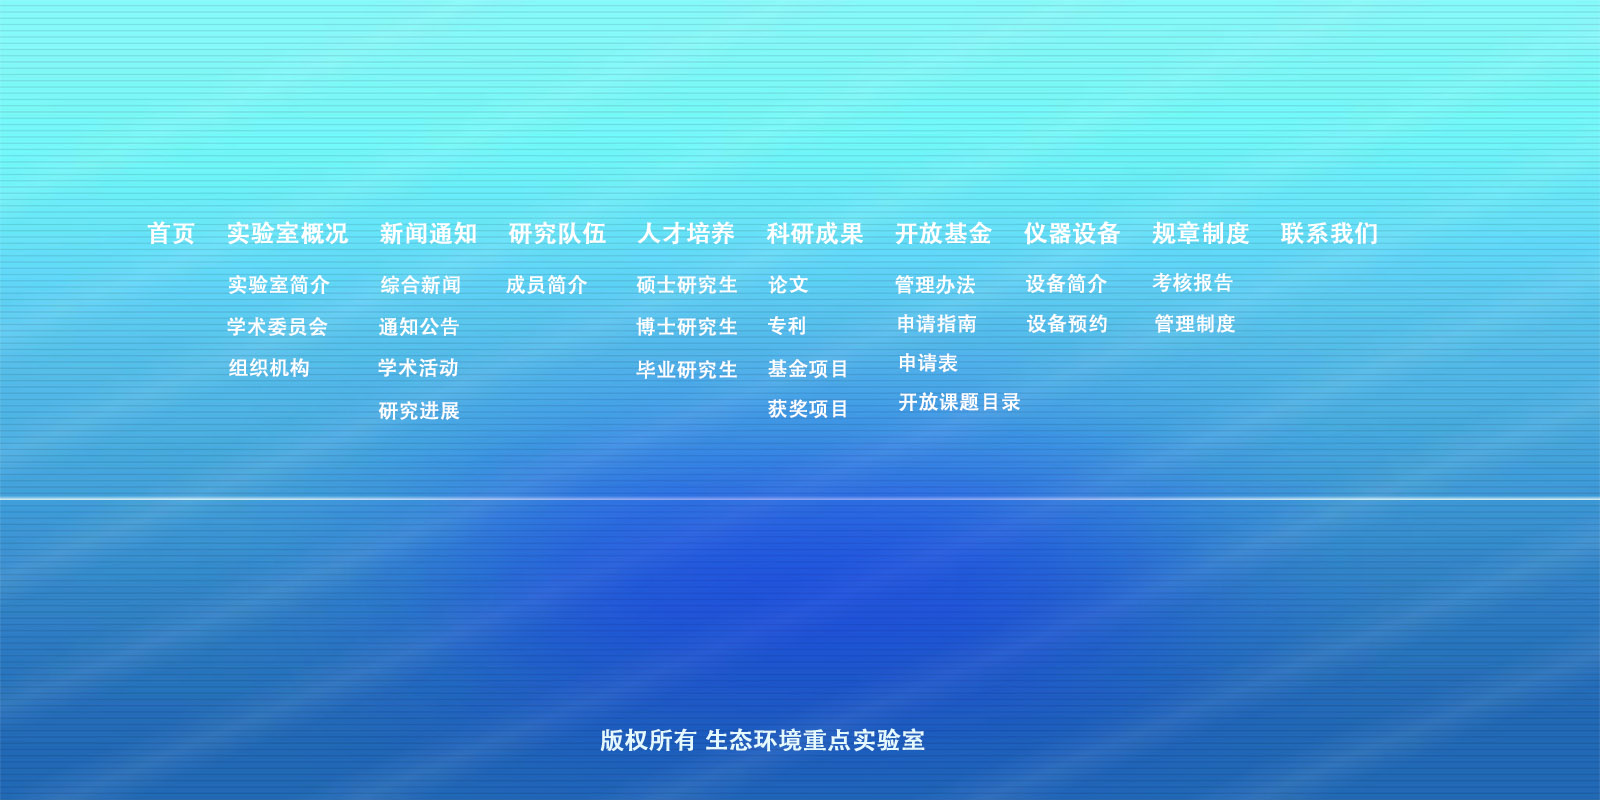
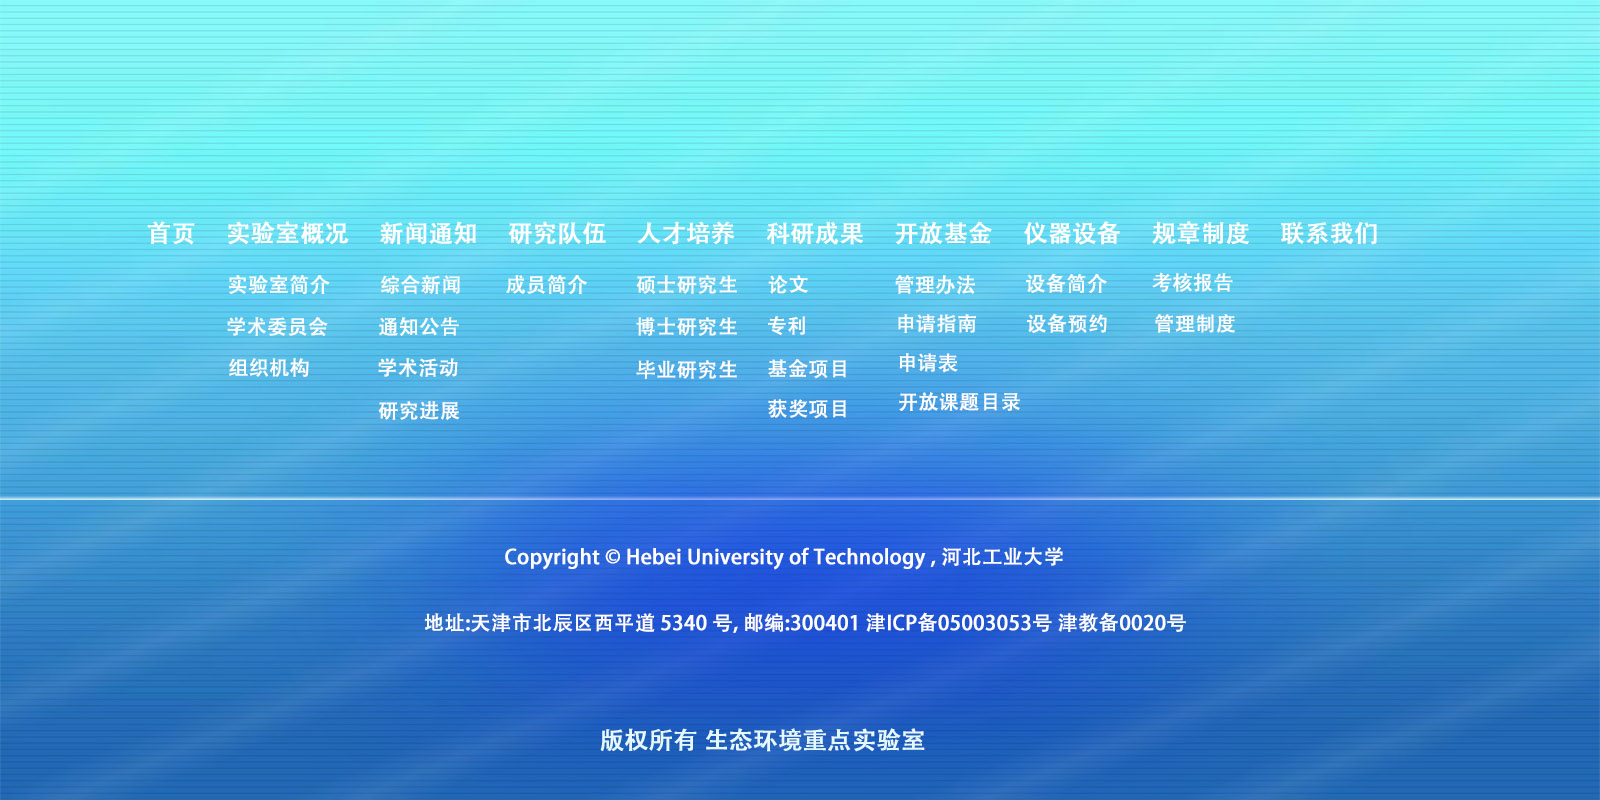
修改

Changed region(s): [[0.25, 0.75, 0.75, 0.8125], [0.3125, 0.6875, 0.6875, 0.7188]]

diff --git a/litian/list.html b/litian/list.html
@@ -1,112 +1,128 @@
-<html>
+<html lang="en">
     <head>
         <meta charset="UTF-8">
         <title>生态环境重点实验室</title>
         <meta content='width=device-width, initial-scale=1, maximum-scale=1, user-scalable=no' name='viewport'>
         <!-- bootstrap 3.0.2 -->
         <link href="css/bootstrap.min.css" rel="stylesheet" type="text/css" />
-        <!-- font Awesome -->
-        <link href="css/font-awesome.min.css" rel="stylesheet" type="text/css" />
-        <!-- Ionicons -->
-        <link href="css/ionicons.min.css" rel="stylesheet" type="text/css" />
-        <!-- Morris chart -->
-        <link href="css/morris/morris.css" rel="stylesheet" type="text/css" />
-        <!-- jvectormap -->
-        <link href="css/jvectormap/jquery-jvectormap-1.2.2.css" rel="stylesheet" type="text/css" />
-        <!-- fullCalendar -->
-        <link href="css/fullcalendar/fullcalendar.css" rel="stylesheet" type="text/css" />
-        <!-- Daterange picker -->
-        <link href="css/daterangepicker/daterangepicker-bs3.css" rel="stylesheet" type="text/css" />
-        <!-- bootstrap wysihtml5 - text editor -->
-        <link href="css/bootstrap-wysihtml5/bootstrap3-wysihtml5.min.css" rel="stylesheet" type="text/css" />
-        <!-- Theme style -->
-        <link href="css/AdminLTE.css" rel="stylesheet" type="text/css" />
+        <!-- theme -->
+        <link href="css/defined.css" rel="stylesheet" type="text/css" />
     </head>
     <body>
         <div class="container-fluid">
-            <div class="row"><!--标题-->
-                <div class="col-md-12">
+            
+            <div class="row bg"><!--标题-->
+                <div class="col-md-2"></div>
+                <div class="col-md-8">
                     <div class="row">
-                        <div class="col-md-2">
-                            <img alt="Bootstrap Image Preview" src="images/3.jpg" class="img-circle" />
-                        </div>
-                        <div class="col-md-5">
-                            <div class="page-header">
-                                <h1>
-                                    生态环境重点实验室
-                                </h1>
-                            </div>
-                        </div>
-                        <div class="col-md-5">
-                                <h3>
-                                    创新 求真 务实
-                                </h3>
+                        <div class="col-md-12">
+                            <img  src="images/logo1.jpg" class="img-responsive" alt="Responsive image"/>
                         </div>
                     </div>
                 </div>
+                <div class="col-md-2"></div>
             </div>
             <div class="row"><!--导航-->
-                <div class="col-md-12">
+                <div class="col-md-2"></div>
+                <div class="col-md-8">
                     <nav class="navbar navbar-default" role="navigation">
-                        <!--<div class="navbar-header">
-                            <button type="button" class="navbar-toggle" data-toggle="collapse" data-target="#bs-example-navbar-collapse-1">
-                                <span class="sr-only"></span>
-                                <span class="icon-bar"></span>
-                                <span class="icon-bar"></span>
-                                <span class="icon-bar"></span>
-                            </button>
-                            <a class="navbar-brand active" href="#">首页</a>
-                        </div>-->
-                        <div class="collapse navbar-collapse" id="bs-example-navbar-collapse-1">
+                        
+                        <div class="collapse navbar-collapse nav-define" id="bs-example-navbar-collapse-1">
                             <ul class="nav navbar-nav">
                                 <li>
-                                    <a href="#">首页</a>
+                                    <a href="laboratory.html"><span class="li-define">首页</span></a>
                                 </li>
                                 <li>
-                                    <a href="#">实验室概况</a>
+                                    <a href="#"><span class="li-define">实验室概况</span></a>
                                 </li>
-                                <li class="active">
-                                    <a href="#">新闻通知</a>
-                                </li>
-                                <li>
-                                    <a href="#">研究队伍</a>
+                                <li class="active-define">
+                                    <a href="list.html"><span class="li-define">新闻通知</span></a>
                                     
                                 </li>
                                 <li>
-                                    <a href="#">人才培养</a>
+                                    <a href="#"><span class="li-define">研究队伍</span></a>
+                                    
                                 </li>
                                 <li>
-                                    <a href="#">科研成果</a>
+                                    <a href="#"><span class="li-define">人才培养</span></a>
                                 </li>
-                                <li class="dropdown">
-                                    <a href="#">开放基金</a>
-                                </li>
-                                <li class="dropdown">
-                                    <a href="#">仪器设备</a>
-                                </li>
-                                <li class="dropdown">
-                                    <a href="#">规章制度</a>
+                                <li>
+                                    <a href="#"><span class="li-define">科研成果</span></a>
                                     <ul class="dropdown-menu">
                                         <li>
-                                            <a href="#">考核报告</a>
+                                            <a href="#">论文</a>
                                         </li>
                                         <li>
-                                            <a href="#">管理制度</a>
+                                            <a href="#">专利</a>
                                         </li>
-                                        
+                                        <li>
+                                            <a href="#">基金项目</a>
+                                        </li>
+                                        <li>
+                                            <a href="#">获奖项目</a>
+                                        </li>
                                     </ul>
                                 </li>
                                 <li>
+                                    <a href="#"><span class="li-define">开放基金</span></a>
+                                    <ul class="dropdown-menu">
+                                        <li>
+                                            <a href="#">管理办法</a>
+                                        </li>
+                                        <li>
+                                            <a href="#">申请指南</a>
+                                        </li>
+                                        <li>
+                                            <a href="#">申请表</a>
+                                        </li>
+                                        <li>
+                                            <a href="#">开放课题目录</a>
+                                        </li>
+                                    </ul>
+                                </li>
+                                <li>
+                                    <a href="#"><span class="li-define">仪器设备</span></a>
+                                    
+                                </li>
+                                <li>
+                                    <a href="#"><span class="li-define">规章制度</span></a>
+                                    
+                                </li>
+                                <li>
                                     <!--<a href="#" class="dropdown-toggle" data-toggle="dropdown">联系我们<strong class="caret"></strong></a>-->
-                                    <a href="">联系我们</a>
+                                    <a href=""><span class="li-define">联系我们</span></a>
+                                    <!--<ul class="dropdown-menu">
+                                        <li>
+                                            <a href="#">Action</a>
+                                        </li>
+                                        <li>
+                                            <a href="#">Another action</a>
+                                        </li>
+                                        <li>
+                                            <a href="#">Something else here</a>
+                                        </li>
+                                        <li class="divider">
+                                        </li>
+                                        <li>
+                                            <a href="#">Separated link</a>
+                                        </li>
+                                        <li class="divider">
+                                        </li>
+                                        <li>
+                                            <a href="#">One more separated link</a>
+                                        </li>
+                                    </ul>-->
                                 </li>
                             </ul>
                         </div>
+                    
                     </nav>
                 </div>
+                <div class="col-md-2"></div>
             </div>
             <div class="row">
-                <div class="col-md-12">
+                <div class="col-md-2"></div>
+                <div class="col-md-8">
                     <div class="tabbable" id="tabs-629959">
                         <ul class="nav nav-tabs">
                                 <li class="active">
@@ -174,35 +190,20 @@
                     </ul>
 		</div>
             </div>
+            <div class="row bg-foot">
+                <div class="col-md-2"></div>
+                <div class="col-md-8">
+                    <div class="row">
+                        <div class="col-md-12">
+                            <img src="images/bg-foot.jpg" class="img-responsive" alt="Responsive image"/>
+                        </div>
+                    </div>
+                </div>
+                <div class="col-md-2"></div>
+            </div>
         </div>
-        <script src="js/jquery-2.1.4.min.js"></script>
-        <!-- jQuery UI 1.10.3 -->
-        <script src="js/jquery-ui-1.10.3.min.js" type="text/javascript"></script>
-        <!-- Bootstrap -->
-        <script src="js/bootstrap.min.js" type="text/javascript"></script>
-        <!-- Morris.js charts -->
-        <script src="//cdnjs.cloudflare.com/ajax/libs/raphael/2.1.0/raphael-min.js"></script>
-        <script src="js/plugins/morris/morris.min.js" type="text/javascript"></script>
-        <!-- Sparkline -->
-        <script src="js/plugins/sparkline/jquery.sparkline.min.js" type="text/javascript"></script>
-        <!-- jvectormap -->
-        <script src="js/plugins/jvectormap/jquery-jvectormap-1.2.2.min.js" type="text/javascript"></script>
-        <script src="js/plugins/jvectormap/jquery-jvectormap-world-mill-en.js" type="text/javascript"></script>
-        <!-- fullCalendar -->
-        <script src="js/plugins/fullcalendar/fullcalendar.min.js" type="text/javascript"></script>
-        <!-- jQuery Knob Chart -->
-        <script src="js/plugins/jqueryKnob/jquery.knob.js" type="text/javascript"></script>
-        <!-- daterangepicker -->
-        <script src="js/plugins/daterangepicker/daterangepicker.js" type="text/javascript"></script>
-        <!-- Bootstrap WYSIHTML5 -->
-        <script src="js/plugins/bootstrap-wysihtml5/bootstrap3-wysihtml5.all.min.js" type="text/javascript"></script>
-        <!-- iCheck -->
-        <script src="js/plugins/iCheck/icheck.min.js" type="text/javascript"></script>
-
-        <!-- AdminLTE App -->
-        <script src="js/AdminLTE/app.js" type="text/javascript"></script>
-        
-        <!-- AdminLTE dashboard demo (This is only for demo purposes) -->
-        <script src="js/AdminLTE/dashboard.js" type="text/javascript"></script>
+        <script src="js/jquery.min.js"></script>
+        <script src="js/bootstrap.min.js"></script>
+        <script src="js/scripts.js"></script>
     </body>
 </html>

diff --git a/litian/laboratory.html b/litian/laboratory.html
@@ -22,7 +22,6 @@
                 </div>
                 <div class="col-md-2"></div>
             </div>
-            <div class="row"></div>
             <div class="row"><!--导航-->
                 <div class="col-md-2"></div>
                 <div class="col-md-8">
@@ -35,35 +34,14 @@
                                 </li>
                                 <li>
                                     <a href="#"><span class="li-define">实验室概况</span></a>
-                                    <ul class="dropdown-menu">
-                                        <li>
-                                            <a href="#">实验室简介</a>
-                                        </li>
-                                        <li>
-                                            <a href="#">学术委员会</a>
-                                        </li>
-                                        <li>
-                                            <a href="#">组织机构</a>
-                                        </li>
-                                    </ul>
                                 </li>
                                 <li>
-                                    <a href="#"><span class="li-define">新闻通知</span></a>
+                                    <a href="list.html"><span class="li-define">新闻通知</span></a>
                                     
                                 </li>
                                 <li>
                                     <a href="#"><span class="li-define">研究队伍</span></a>
-                                    <ul class="dropdown-menu">
-                                        <li>
-                                            <a href="#">研究方向1：成员简介</a>
-                                        </li>
-                                        <li>
-                                            <a href="#">研究方向2：成员简介</a>
-                                        </li>
-                                        <li>
-                                            <a href="#">研究方向3：成员简介</a>
-                                        </li>
-                                    </ul>
+                                    
                                 </li>
                                 <li>
                                     <a href="#"><span class="li-define">人才培养</span></a>
@@ -102,7 +80,7 @@
                                         </li>
                                     </ul>
                                 </li>
-                                <li class="dropdown">
+                                <li>
                                     <a href="#"><span class="li-define">仪器设备</span></a>
                                     
                                 </li>

diff --git a/litian/css/defined.css b/litian/css/defined.css
@@ -18,7 +18,7 @@
     background-size:contain;
 }
 .bg-slider{
-    background: url(../images/bg-8.jpg) no-repeat center fixed;
+    background: url(../images/bg-8.jpg)  center fixed;
     background-size:contain;
 }
 .bg-protect{
@@ -28,4 +28,7 @@
 .bg-foot{
     background: url(../images/bg-2.jpg) center fixed;
     background-size:contain;
+}
+#nav-define{
+      background:url(../images/nav-bg.jpg) repeat-x; position:relative; z-index:2000;
 }
